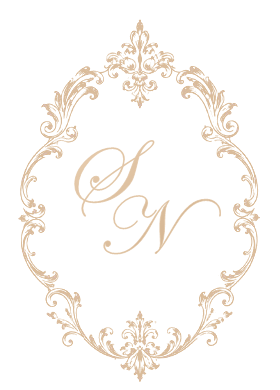
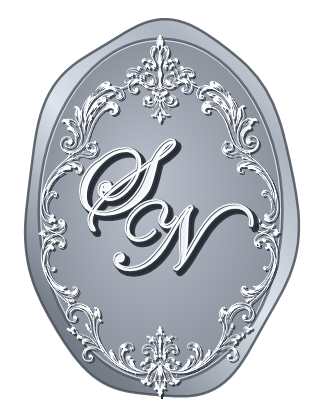
Add files via upload

diff --git a/index.html b/index.html
@@ -20,7 +20,7 @@
     <link rel="stylesheet" href="https://cdnjs.cloudflare.com/ajax/libs/font-awesome/6.5.1/css/all.min.css">
 
     <!-- Main Stylesheet -->
-    <link rel="stylesheet" href="styles.css?v=51">
+    <link rel="stylesheet" href="styles.css?v=52">
 </head>
 
 <body>
@@ -74,8 +74,9 @@
                     <div class="envelope-top-flap"></div>
 
                     <!-- Sigillo Monogramma SN -->
-                    <div class="wax-seal-pearl" id="waxSeal" onclick="triggerEnvelopeOpen()">
-                        <img src="silver_seal.png?v=6" alt="Sigillo Monogramma SN" class="wax-seal-img">
+                    <div class="wax-seal-pearl" id="waxSeal" onclick="triggerEnvelopeOpen()"
+                        style="top: 52px; width: 58px; height: 76px; filter: drop-shadow(0 5px 12px rgba(0, 0, 0, 0.65)) drop-shadow(0 0 8px rgba(226, 232, 240, 0.35));">
+                        <img src="sigillo_sn.png?v=3" alt="Sigillo Monogramma SN Argentato" class="wax-seal-img">
                     </div>
                 </div>
 
@@ -121,7 +122,9 @@
                     Vi aspetto per festeggiare insieme una serata piena di emozioni e felicità, che porterò per sempre
                     tra i ricordi più belli della mia vita.
                 </p>
-                <h2 class="hero-name-santtory dyn-name">Sofia</h2>
+                <h2 class="hero-name-santtory dyn-name"
+                    style="font-size: 2.35rem; width: 100%; max-width: 270px; text-align: right; padding-right: 8px; margin: -2px auto 6px; transform: rotate(-2deg);">
+                    Sofia</h2>
                 <!-- Data & Ora -->
                 <div class="date-pill-container">
                     <div class="date-pill">
@@ -398,7 +401,26 @@
     </script>
 
     <!-- Core Logic -->
-    <script src="app.js?v=37"></script>
+    <script src="app.js?v=99"></script>
+    <script>
+        (function () {
+            function applyLatestUpdates() {
+                try {
+                    localStorage.removeItem("sofia_18_multipage_config");
+                } catch (e) { }
+                document.querySelectorAll(".dyn-event-type").forEach(function (el) {
+                    el.textContent = "Al Mio 18° Compleanno";
+                });
+                var rsvpEl = document.getElementById("dynRsvpDeadline");
+                if (rsvpEl) {
+                    rsvpEl.innerHTML = "<b>SI PREGA DI DARE GENTILE CONFERMA ENTRO IL 20 NOVEMBRE 2026.</b>";
+                }
+            }
+            applyLatestUpdates();
+            document.addEventListener("DOMContentLoaded", applyLatestUpdates);
+            window.addEventListener("load", applyLatestUpdates);
+        })();
+    </script>
 </body>
 
 </html>

diff --git a/styles.css b/styles.css
@@ -473,17 +473,17 @@ body {
 
 .wax-seal-pearl {
   position: absolute;
-  top: 34px;
+  top: 52px;
   left: 50%;
   transform: translateX(-50%);
-  width: 82px;
-  height: 112px;
+  width: 58px;
+  height: 76px;
   z-index: 10;
   display: flex;
   align-items: center;
   justify-content: center;
   cursor: pointer;
-  filter: drop-shadow(0 4px 10px rgba(0, 0, 0, 0.65)) drop-shadow(0 0 8px rgba(212, 175, 55, 0.3));
+  filter: drop-shadow(0 5px 12px rgba(0, 0, 0, 0.65)) drop-shadow(0 0 8px rgba(226, 232, 240, 0.35));
   transition: transform 0.6s ease, opacity 0.6s ease;
   animation: sealPulse 2.8s infinite;
 }
